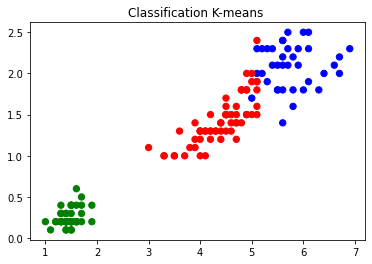
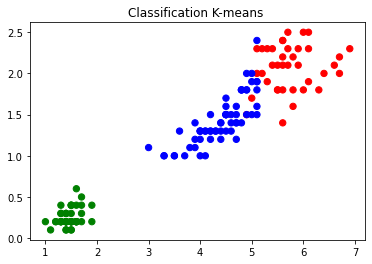
Update documentation

diff --git a/searchindex.js b/searchindex.js
@@ -1,1 +1,1 @@
-Search.setIndex({docnames:["Tugas1","Tugas2","Tugas3","Tugas4","Tugas5","intro","markdown","markdown-notebooks"],envversion:{"sphinx.domains.c":2,"sphinx.domains.changeset":1,"sphinx.domains.citation":1,"sphinx.domains.cpp":5,"sphinx.domains.index":1,"sphinx.domains.javascript":2,"sphinx.domains.math":2,"sphinx.domains.python":3,"sphinx.domains.rst":2,"sphinx.domains.std":2,"sphinx.ext.intersphinx":1,"sphinxcontrib.bibtex":9,sphinx:56},filenames:["Tugas1.ipynb","Tugas2.ipynb","Tugas3.ipynb","Tugas4.ipynb","Tugas5.ipynb","intro.md","markdown.md","markdown-notebooks.md"],objects:{},objnames:{},objtypes:{},terms:{"0":[0,1,2,3,4],"05":4,"0x7fc813c35c10":4,"0x7ff1bbdb3a10":[],"1":[1,2,3,4,5],"10":[],"109024":0,"11":3,"120":2,"145":[1,4],"146":[1,4],"147":[1,4],"148":[1,4],"149":[1,4],"150":[1,2,4],"179":4,"188":4,"19":[],"1936":4,"1950":4,"1972":4,"1973":4,"1980":4,"1988":4,"2":[0,2,3,4,5,7],"20":[3,4],"20000":0,"200411100055":5,"2014":6,"2020":0,"209c72615602":[],"218":4,"22361":4,"23":[],"26":2,"260000":0,"28":3,"3":[0,1,3,4,5],"30":2,"33":4,"4":[0,1,2,4,5,7],"40":4,"4194":4,"43":4,"431":4,"433":4,"471":4,"5":[1,2,3,5],"50":[0,4],"54":4,"5485":[],"5486":[],"5487":[],"5488":[],"5489":[],"57838da014bb":[],"6":[1,2,3,4],"64":4,"67":4,"7":[1,2,3,4],"70000":0,"71":4,"76":4,"7826":4,"7943dae48e6f":[],"79833":0,"8":[1,2,3,4],"82":3,"83":4,"84":4,"85000":0,"9":[1,2,3,4],"9333333333333333":3,"9490":4,"9565":4,"class":[2,4],"default":7,"do":6,"function":6,"import":[0,1,2,3,4],"new":4,"r\u00e9el":4,"return":0,"true":2,A:4,As:[],But:[],For:6,If:7,In:6,It:6,NOT:4,No:4,One:4,That:7,The:[4,6,7],There:[],With:7,__getattr__:[],__getattribute__:[],__setattr__:[],_iris_dataset:4,aa:1,ab:1,about:[6,7],ac:1,accept:6,accuraci:[2,3],accuracy_scor:2,ad:1,add_:[],al:4,algorithm:[],align:[],all:[6,7],allow:6,also:[4,6,7],an:6,analysi:4,analyst:0,ani:7,annual:4,append:2,ar:[4,6,7],arc:4,aril:5,around:4,arrai:[2,3,4],attribut:4,attributeerror:[],attributeerrortraceback:[],auditori:6,australia:6,auto:[],autoclass:4,axi:1,b:[0,4],base:7,bay:3,begin:[],being:6,best:4,bib:6,bibliographi:6,bibtex:6,big:0,block:7,blue:4,book:[6,7],both:6,box:6,brian:6,brisban:6,build:6,built:7,bunch:2,bundl:[],c8fbb625ebca:[],c:[3,4,5],call:6,can:[6,7],characterist:4,check:[],cheeseman:4,choos:4,christoph:6,cite:6,clasif:3,classic:4,classif:4,cluster:5,cm:[2,3,4],code:[6,7],cognit:6,col:0,collect:4,colormap:4,column:[1,4],com:[0,1,3],command:7,commonmark:6,company_loc:0,company_s:0,concat:1,conceptu:4,confer:6,confusion_matrix:3,contain:4,content:[6,7],contribut:4,convert:7,core:[],correct:3,correl:4,corrpr:3,cortex:6,creat:[],creator:4,csv:[0,1,3,4],cycler:[0,1],d83:4,d:7,dai:4,dasarathi:4,data:[0,1,2,3,4,5],data_modul:4,dataa1:1,dataa2:1,dataa3:1,dataa4:1,databas:4,datafram:[1,4],datalist:1,dataset:[0,1,2,3,4],date:4,de:[0,6],def:0,defin:7,depend:6,depth:[],descr:4,detail:7,differ:6,direct:7,diskritisasi:[],diskrititasi:5,displai:7,diss:0,dissimiliar:5,dist:[],distribut:4,document:[6,7],doe:[],dollar:[],donor:4,ds_salari:0,dtype:[3,4],duda:4,e:4,each:4,ecosystem:6,ellipsi:1,els:3,emb:[],employee_resid:0,employment_typ:0,encod:1,end:[],engin:0,environ:4,escap:[],est:1,et:4,etc:[],eugen:4,eur:0,evid:6,exampl:[4,6],execut:7,experience_level:0,expos:4,extens:6,fa:1,fals:3,falsepr:3,famou:4,fb:1,fc:1,fd:1,feature_nam:[2,4],feel:[],few:[],field:4,file:7,filenam:4,find:4,first:4,fisher:4,fit:[1,2,3,4],fit_transform:3,flavor:6,follow:[6,7],found:4,frame:4,frequent:4,from:[0,1,2,3,4],frontier:6,ft:0,g:4,gate:4,gaussiannb:3,gb:0,gbp:0,gener:[],get:[6,7],githubusercont:[0,1,3],give:[],go:[],gov:4,green:4,guid:[],ha:4,hart:4,have:7,hdhpk14:6,head:[0,1,3],heer:6,help:6,here:6,high:4,hn:0,holdgraf:6,holdgraf_evidence_2014:6,how:7,html:[],http:[0,1,3],human:6,ieee:4,ii:4,iloc:3,imag:3,includ:7,inform:[4,7],init:7,inlin:[2,6],input:6,insert:6,instanc:4,instruct:7,int32:4,intellig:4,interact:[],intern:6,io:4,ion:[0,1],ipynb:6,ipython:[],iri:[1,2,3,4],isbn:4,job_titl:0,john:4,jp:0,juli:4,jupyt:[6,7],jupyterbook:6,jupytext:7,just:6,k:[2,5],k_rang:2,kbinsdiscret:1,keep:[],kela:5,kernel:7,kind:6,kkn:[],kmean:4,kneighborsclassifi:2,knight:6,knn:5,known:4,l:0,la_:[],labels_:4,languag:6,last:[],leaf_siz:[],learn:[0,4],length:[2,4],let:7,lib:[],like:[6,7],line:[6,7],linearli:4,list:[],literatur:4,ll:6,load_iri:[2,4],local:[],lot:6,m:0,machin:[0,4],mai:4,main:[0,1,3],major:[],make:[],mani:[4,6,7],markdown:[],markdownfil:7,markedli:6,markup:6,marshal:4,math:[],mathemat:4,matplotlib:[0,1,2,3,4],max:4,mbox:[],md:[6,7],mean:5,measur:4,metric:[2,3,4],metric_param:[],mi:0,michael:4,min:4,minkowski:[],miss:4,mlc:4,model:4,model_select:[2,3],modul:[],more:[4,7],moreov:6,most:6,mpimg:3,multipl:4,must:6,myst:[],n:[3,4,6],n_bin:1,n_cluster:4,n_job:[],n_neighbor:2,naccuraci:3,naiv:3,naive_bay:3,nama:5,name:[],nameerror:[],nameerrortraceback:[],nasa:4,ndarrai:2,ndata:4,nearest:4,need:7,neighbor:[2,4],neighborhood:4,neurosci:6,nfrom:4,ni:4,nim:5,niri:4,nlatter:4,nmachin:4,none:4,nose:4,note:[4,6],notebook:6,np:[0,1,3,4],npattern:4,nthe:4,nthi:4,ntype:4,number:4,numer:4,numpi:[0,1,2,3,4],nvclassifi:3,ny:4,o:4,object:3,off:[6,7],one:6,ordin:1,org:6,other:[4,7],out:[],output:7,overview:6,p:4,packag:[],page:[4,6,7],pami:4,panda:[0,1,3,4],paper:4,part:4,partial:4,particular:[],paslei:6,path:7,pathcollect:4,pattern:4,pd:[0,1,3,4],penambangan:5,pengumpulan:5,penugasan:5,perhap:4,petal:[2,4],petal_length:[1,3,4],petal_width:[1,3,4],petallength:1,petalwidth:1,plant:4,plot:2,plt:[0,1,2,3,4],plu:4,point:4,pop:[],post:[],power:6,predi:4,predict:[2,3,4,6],preprocess:[1,3],presenc:7,print:[0,2,3,4,7],probabl:5,problem:4,proceed:4,product:0,properli:6,purpos:6,py:[],pyplot:[0,1,2,3,4],python3:[],q327:4,r:4,ramsai:6,random:[],random_st:[2,3],rang:[2,3],raw:[0,1,3],rcparam:[0,1],read_csv:[0,1,3],recent:[],recognit:4,red:4,reduc:4,refer:[4,6],referenc:4,regular:6,remote_ratio:0,render:6,repositori:4,reshap:1,rest:7,return_x_i:2,robert:6,row:[1,3,4],rule:4,run:7,s:[0,4,6,7],salari:0,salary_curr:0,salary_in_usd:0,same:[4,6],sampl:[],saputra:5,sc:3,scatter:4,scene:4,scientist:0,score:2,scores_list:2,sd:4,se:0,seaborn:[],see:[4,6,7],self:[],sepal:[2,4],sepal_length:[1,3,4],sepal_width:[1,3,4],sepallength:1,sepalwidth:1,separ:4,serv:6,set:4,setosa:[1,2,3,4],shape:[2,3],should:7,show:[6,7],sign:[],similar:6,simpl:6,sir:4,sklearn:[1,2,3,4],slight:6,sm:4,small:6,sn:[],so:7,some:6,son:4,sp:1,span:6,spe:1,speci:[1,3],special:6,specif:6,spesi:1,sphinx:6,stand:6,standardscal:3,start:[6,7],starter:6,statist:4,store:6,str:[],strategi:1,structur:[4,6],sum:3,summari:4,support:7,sure:[],syntax:6,system:4,t:[3,6],taken:4,target:[2,4],target_nam:4,taxonom:4,tepal_length:1,tepal_width:1,test:2,test_siz:[2,3],tex:[],text:[2,4,6,7],thei:6,theori:4,thi:[4,6,7],thing:7,those:6,three:4,titl:4,to_csv:[],tool:6,top:7,topic:4,train_test_split:[2,3],transact:4,transform:[1,3],treat:7,tuga:5,two:[4,6,7],type:2,u10:4,uci:4,understand:7,uniform:1,unnam:0,us:[4,6,7],usd:0,usr:[],util:2,v:4,valu:[1,2,3,4],variat:6,versicolor:[2,3,4],versicolour:4,virginica:[1,2,3,4],vol:4,vstack:3,w:4,wahyu:5,wahyuarilsaputra:[0,1,3],want:[],weight:[],well:[],wendi:6,when:[6,7],where:4,wherea:6,whether:6,which:[4,7],width:[2,4],wilei:4,work:[],work_year:0,write:[6,7],written:[6,7],wrong:4,x:[0,2,3,4],x_new:2,x_test:[2,3],x_train:[2,3],xa:1,xb:1,xc:1,xd:1,xlabel:2,y:[0,2,3,4],y_compar:3,y_pred:[2,3],y_predict:2,y_test:[2,3],y_train:[2,3],ylabel:2,you:[6,7],your:[6,7]},titles:["Tugas 1 : Dissimiliarity","Tugas 2 : Diskrititasi","Tugas 3 : KNN","Tugas 4 : Probability","Tugas 5 : K-Means Clustering","Welcome to your Jupyter Book","Markdown Files","Notebooks with MyST Markdown"],titleterms:{"1":0,"2":1,"3":2,"4":3,"5":4,add:7,an:7,block:[],book:5,cell:7,citat:6,cluster:4,code:[],content:[],creat:7,direct:6,diskritisasi:[],diskrititasi:1,dissimiliar:0,exampl:7,file:6,jupyt:5,k:4,knn:2,learn:6,markdown:[6,7],mean:4,metadata:7,more:6,myst:[6,7],notebook:7,output:[],probabl:3,quickli:7,role:6,sampl:6,tuga:[0,1,2,3,4],welcom:5,what:6,yaml:7,your:5}})
+Search.setIndex({docnames:["Tugas1","Tugas2","Tugas3","Tugas4","Tugas5","intro","markdown","markdown-notebooks"],envversion:{"sphinx.domains.c":2,"sphinx.domains.changeset":1,"sphinx.domains.citation":1,"sphinx.domains.cpp":5,"sphinx.domains.index":1,"sphinx.domains.javascript":2,"sphinx.domains.math":2,"sphinx.domains.python":3,"sphinx.domains.rst":2,"sphinx.domains.std":2,"sphinx.ext.intersphinx":1,"sphinxcontrib.bibtex":9,sphinx:56},filenames:["Tugas1.ipynb","Tugas2.ipynb","Tugas3.ipynb","Tugas4.ipynb","Tugas5.ipynb","intro.md","markdown.md","markdown-notebooks.md"],objects:{},objnames:{},objtypes:{},terms:{"0":[0,1,2,3,4],"05":4,"0x7fc813c35c10":[],"0x7fde151e50d0":4,"0x7ff1bbdb3a10":[],"1":[1,2,3,4,5],"10":[],"109024":0,"11":3,"120":2,"145":[1,4],"146":[1,4],"147":[1,4],"148":[1,4],"149":[1,4],"150":[1,2,4],"179":4,"188":4,"19":[],"1936":4,"1950":4,"1972":4,"1973":4,"1980":4,"1988":4,"2":[0,2,3,4,5,7],"20":[3,4],"20000":0,"200411100055":5,"2014":6,"2020":0,"209c72615602":[],"218":4,"22361":4,"23":[],"26":2,"260000":0,"28":3,"3":[0,1,3,4,5],"30":2,"33":4,"4":[0,1,2,4,5,7],"40":4,"4194":4,"43":4,"431":4,"433":4,"471":4,"5":[1,2,3,5],"50":[0,4],"54":4,"5485":[],"5486":[],"5487":[],"5488":[],"5489":[],"57838da014bb":[],"6":[1,2,3,4],"64":4,"67":4,"7":[1,2,3,4],"70000":0,"71":4,"76":4,"7826":4,"7943dae48e6f":[],"79833":0,"8":[1,2,3,4],"82":3,"83":4,"84":4,"85000":0,"9":[1,2,3,4],"9333333333333333":3,"9490":4,"9565":4,"class":[2,4],"default":7,"do":6,"function":6,"import":[0,1,2,3,4],"new":4,"r\u00e9el":4,"return":0,"true":2,A:4,As:[],But:[],For:6,If:7,In:6,It:6,NOT:4,No:4,One:4,That:7,The:[4,6,7],There:[],With:7,__getattr__:[],__getattribute__:[],__setattr__:[],_iris_dataset:4,aa:1,ab:1,about:[6,7],ac:1,accept:6,accuraci:[2,3],accuracy_scor:2,ad:1,add_:[],al:4,algorithm:[],align:[],all:[6,7],allow:6,also:[4,6,7],an:6,analysi:4,analyst:0,ani:7,annual:4,append:2,ar:[4,6,7],arc:4,aril:5,around:4,arrai:[2,3,4],attribut:4,attributeerror:[],attributeerrortraceback:[],auditori:6,australia:6,auto:[],autoclass:4,axi:1,b:[0,4],base:7,bay:3,begin:[],being:6,best:4,bib:6,bibliographi:6,bibtex:6,big:0,block:7,blue:4,book:[6,7],both:6,box:6,brian:6,brisban:6,build:6,built:7,bunch:2,bundl:[],c8fbb625ebca:[],c:[3,4,5],call:6,can:[6,7],characterist:4,check:[],cheeseman:4,choos:4,christoph:6,cite:6,clasif:3,classic:4,classif:4,cluster:5,cm:[2,3,4],code:[6,7],cognit:6,col:0,collect:4,colormap:4,column:[1,4],com:[0,1,3],command:7,commonmark:6,company_loc:0,company_s:0,concat:1,conceptu:4,confer:6,confusion_matrix:3,contain:4,content:[6,7],contribut:4,convert:7,core:[],correct:3,correl:4,corrpr:3,cortex:6,creat:[],creator:4,csv:[0,1,3,4],cycler:[0,1],d83:4,d:7,dai:4,dasarathi:4,data:[0,1,2,3,4,5],data_modul:4,dataa1:1,dataa2:1,dataa3:1,dataa4:1,databas:4,datafram:[1,4],datalist:1,dataset:[0,1,2,3,4],date:4,de:[0,6],def:0,defin:7,depend:6,depth:[],descr:4,detail:7,differ:6,direct:7,diskritisasi:[],diskrititasi:5,displai:7,diss:0,dissimiliar:5,dist:[],distribut:4,document:[6,7],doe:[],dollar:[],donor:4,ds_salari:0,dtype:[3,4],duda:4,e:4,each:4,ecosystem:6,ellipsi:1,els:3,emb:[],employee_resid:0,employment_typ:0,encod:1,end:[],engin:0,environ:4,escap:[],est:1,et:4,etc:[],eugen:4,eur:0,evid:6,exampl:[4,6],execut:7,experience_level:0,expos:4,extens:6,fa:1,fals:3,falsepr:3,famou:4,fb:1,fc:1,fd:1,feature_nam:[2,4],feel:[],few:[],field:4,file:7,filenam:4,find:4,first:4,fisher:4,fit:[1,2,3,4],fit_transform:3,flavor:6,follow:[6,7],found:4,frame:4,frequent:4,from:[0,1,2,3,4],frontier:6,ft:0,g:4,gate:4,gaussiannb:3,gb:0,gbp:0,gener:[],get:[6,7],githubusercont:[0,1,3],give:[],go:[],gov:4,green:4,guid:[],ha:4,hart:4,have:7,hdhpk14:6,head:[0,1,3],heer:6,help:6,here:6,high:4,hn:0,holdgraf:6,holdgraf_evidence_2014:6,how:7,html:[],http:[0,1,3],human:6,ieee:4,ii:4,iloc:3,imag:3,includ:7,inform:[4,7],init:7,inlin:[2,6],input:6,insert:6,instanc:4,instruct:7,int32:4,intellig:4,interact:[],intern:6,io:4,ion:[0,1],ipynb:6,ipython:[],iri:[1,2,3,4],isbn:4,job_titl:0,john:4,jp:0,juli:4,jupyt:[6,7],jupyterbook:6,jupytext:7,just:6,k:[2,5],k_rang:2,kbinsdiscret:1,keep:[],kela:5,kernel:7,kind:6,kkn:[],kmean:4,kneighborsclassifi:2,knight:6,knn:5,known:4,l:0,la_:[],labels_:4,languag:6,last:[],leaf_siz:[],learn:[0,4],length:[2,4],let:7,lib:[],like:[6,7],line:[6,7],linearli:4,list:[],literatur:4,ll:6,load_iri:[2,4],local:[],lot:6,m:0,machin:[0,4],mai:4,main:[0,1,3],major:[],make:[],mani:[4,6,7],markdown:[],markdownfil:7,markedli:6,markup:6,marshal:4,math:[],mathemat:4,matplotlib:[0,1,2,3,4],max:4,mbox:[],md:[6,7],mean:5,measur:4,metric:[2,3,4],metric_param:[],mi:0,michael:4,min:4,minkowski:[],miss:4,mlc:4,model:4,model_select:[2,3],modul:[],more:[4,7],moreov:6,most:6,mpimg:3,multipl:4,must:6,myst:[],n:[3,4,6],n_bin:1,n_cluster:4,n_job:[],n_neighbor:2,naccuraci:3,naiv:3,naive_bay:3,nama:5,name:[],nameerror:[],nameerrortraceback:[],nasa:4,ndarrai:2,ndata:4,nearest:4,need:7,neighbor:[2,4],neighborhood:4,neurosci:6,nfrom:4,ni:4,nim:5,niri:4,nlatter:4,nmachin:4,none:4,nose:4,note:[4,6],notebook:6,np:[0,1,3,4],npattern:4,nthe:4,nthi:4,ntype:4,number:4,numer:4,numpi:[0,1,2,3,4],nvclassifi:3,ny:4,o:4,object:3,off:[6,7],one:6,ordin:1,org:6,other:[4,7],out:[],output:7,overview:6,p:4,packag:[],page:[4,6,7],pami:4,panda:[0,1,3,4],paper:4,part:4,partial:4,particular:[],paslei:6,path:7,pathcollect:4,pattern:4,pd:[0,1,3,4],penambangan:5,pengumpulan:5,penugasan:5,perhap:4,petal:[2,4],petal_length:[1,3,4],petal_width:[1,3,4],petallength:1,petalwidth:1,plant:4,plot:2,plt:[0,1,2,3,4],plu:4,point:4,pop:[],post:[],power:6,predi:4,predict:[2,3,4,6],preprocess:[1,3],presenc:7,print:[0,2,3,4,7],probabl:5,problem:4,proceed:4,product:0,properli:6,purpos:6,py:[],pyplot:[0,1,2,3,4],python3:[],q327:4,r:4,ramsai:6,random:[],random_st:[2,3],rang:[2,3],raw:[0,1,3],rcparam:[0,1],read_csv:[0,1,3],recent:[],recognit:4,red:4,reduc:4,refer:[4,6],referenc:4,regular:6,remote_ratio:0,render:6,repositori:4,reshap:1,rest:7,return_x_i:2,robert:6,row:[1,3,4],rule:4,run:7,s:[0,4,6,7],salari:0,salary_curr:0,salary_in_usd:0,same:[4,6],sampl:[],saputra:5,sc:3,scatter:4,scene:4,scientist:0,score:2,scores_list:2,sd:4,se:0,seaborn:[],see:[4,6,7],self:[],sepal:[2,4],sepal_length:[1,3,4],sepal_width:[1,3,4],sepallength:1,sepalwidth:1,separ:4,serv:6,set:4,setosa:[1,2,3,4],shape:[2,3],should:7,show:[6,7],sign:[],similar:6,simpl:6,sir:4,sklearn:[1,2,3,4],slight:6,sm:4,small:6,sn:[],so:7,some:6,son:4,sp:1,span:6,spe:1,speci:[1,3],special:6,specif:6,spesi:1,sphinx:6,stand:6,standardscal:3,start:[6,7],starter:6,statist:4,store:6,str:[],strategi:1,structur:[4,6],sum:3,summari:4,support:7,sure:[],syntax:6,system:4,t:[3,6],taken:4,target:[2,4],target_nam:4,taxonom:4,tepal_length:1,tepal_width:1,test:2,test_siz:[2,3],tex:[],text:[2,4,6,7],thei:6,theori:4,thi:[4,6,7],thing:7,those:6,three:4,titl:4,to_csv:[],tool:6,top:7,topic:4,train_test_split:[2,3],transact:4,transform:[1,3],treat:7,tuga:5,two:[4,6,7],type:2,u10:4,uci:4,understand:7,uniform:1,unnam:0,us:[4,6,7],usd:0,usr:[],util:2,v:4,valu:[1,2,3,4],variat:6,versicolor:[2,3,4],versicolour:4,virginica:[1,2,3,4],vol:4,vstack:3,w:4,wahyu:5,wahyuarilsaputra:[0,1,3],want:[],weight:[],well:[],wendi:6,when:[6,7],where:4,wherea:6,whether:6,which:[4,7],width:[2,4],wilei:4,work:[],work_year:0,write:[6,7],written:[6,7],wrong:4,x:[0,2,3,4],x_new:2,x_test:[2,3],x_train:[2,3],xa:1,xb:1,xc:1,xd:1,xlabel:2,y:[0,2,3,4],y_compar:3,y_pred:[2,3],y_predict:2,y_test:[2,3],y_train:[2,3],ylabel:2,you:[6,7],your:[6,7]},titles:["Tugas 1 : Dissimiliarity","Tugas 2 : Diskrititasi","Tugas 3 : KNN","Tugas 4 : Probability","Tugas 5 : K-Means Clustering","Welcome to your Jupyter Book","Markdown Files","Notebooks with MyST Markdown"],titleterms:{"1":0,"2":1,"3":2,"4":3,"5":4,add:7,an:7,block:[],book:5,cell:7,citat:6,cluster:4,code:[],content:[],creat:7,direct:6,diskritisasi:[],diskrititasi:1,dissimiliar:0,exampl:7,file:6,jupyt:5,k:4,knn:2,learn:6,markdown:[6,7],mean:4,metadata:7,more:6,myst:[6,7],notebook:7,output:[],probabl:3,quickli:7,role:6,sampl:6,tuga:[0,1,2,3,4],welcom:5,what:6,yaml:7,your:5}})

diff --git a/Tugas5.html b/Tugas5.html
@@ -766,7 +766,7 @@ title="Print to PDF"
 </div>
 <div class="cell_output docutils container">
 <div class="output text_html">
-  <div id="df-f6535c56-07c1-4f72-b195-255659a3a111">
+  <div id="df-33600a52-9047-4dc3-b70b-fa9c16e08eca">
     <div class="colab-df-container">
       <div>
 <style scoped>
@@ -874,7 +874,7 @@ title="Print to PDF"
 </table>
 <p>150 rows × 4 columns</p>
 </div>
-      <button class="colab-df-convert" onclick="convertToInteractive('df-f6535c56-07c1-4f72-b195-255659a3a111')"
+      <button class="colab-df-convert" onclick="convertToInteractive('df-33600a52-9047-4dc3-b70b-fa9c16e08eca')"
               title="Convert this dataframe to an interactive table."
               style="display:none;">
 
@@ -925,12 +925,12 @@ title="Print to PDF"
 
       <script>
         const buttonEl =
-          document.querySelector('#df-f6535c56-07c1-4f72-b195-255659a3a111 button.colab-df-convert');
+          document.querySelector('#df-33600a52-9047-4dc3-b70b-fa9c16e08eca button.colab-df-convert');
         buttonEl.style.display =
           google.colab.kernel.accessAllowed ? 'block' : 'none';
 
         async function convertToInteractive(key) {
-          const element = document.querySelector('#df-f6535c56-07c1-4f72-b195-255659a3a111');
+          const element = document.querySelector('#df-33600a52-9047-4dc3-b70b-fa9c16e08eca');
           const dataTable =
             await google.colab.kernel.invokeFunction('convertToInteractive',
                                                      [key], {});
@@ -961,7 +961,7 @@ title="Print to PDF"
 </div>
 <div class="cell_output docutils container">
 <div class="output text_html">
-  <div id="df-4765a946-d408-4935-8b69-2349b8e01ad5">
+  <div id="df-b6ac3ee0-1b61-491d-96bb-b4167061691c">
     <div class="colab-df-container">
       <div>
 <style scoped>
@@ -1033,7 +1033,7 @@ title="Print to PDF"
 </table>
 <p>150 rows × 1 columns</p>
 </div>
-      <button class="colab-df-convert" onclick="convertToInteractive('df-4765a946-d408-4935-8b69-2349b8e01ad5')"
+      <button class="colab-df-convert" onclick="convertToInteractive('df-b6ac3ee0-1b61-491d-96bb-b4167061691c')"
               title="Convert this dataframe to an interactive table."
               style="display:none;">
 
@@ -1084,12 +1084,12 @@ title="Print to PDF"
 
       <script>
         const buttonEl =
-          document.querySelector('#df-4765a946-d408-4935-8b69-2349b8e01ad5 button.colab-df-convert');
+          document.querySelector('#df-b6ac3ee0-1b61-491d-96bb-b4167061691c button.colab-df-convert');
         buttonEl.style.display =
           google.colab.kernel.accessAllowed ? 'block' : 'none';
 
         async function convertToInteractive(key) {
-          const element = document.querySelector('#df-4765a946-d408-4935-8b69-2349b8e01ad5');
+          const element = document.querySelector('#df-b6ac3ee0-1b61-491d-96bb-b4167061691c');
           const dataTable =
             await google.colab.kernel.invokeFunction('convertToInteractive',
                                                      [key], {});
@@ -1138,11 +1138,11 @@ title="Print to PDF"
 <div class="cell_output docutils container">
 <div class="output text_plain highlight-myst-ansi notranslate"><div class="highlight"><pre><span></span>array([1, 1, 1, 1, 1, 1, 1, 1, 1, 1, 1, 1, 1, 1, 1, 1, 1, 1, 1, 1, 1, 1,
        1, 1, 1, 1, 1, 1, 1, 1, 1, 1, 1, 1, 1, 1, 1, 1, 1, 1, 1, 1, 1, 1,
-       1, 1, 1, 1, 1, 1, 0, 0, 2, 0, 0, 0, 0, 0, 0, 0, 0, 0, 0, 0, 0, 0,
-       0, 0, 0, 0, 0, 0, 0, 0, 0, 0, 0, 2, 0, 0, 0, 0, 0, 0, 0, 0, 0, 0,
-       0, 0, 0, 0, 0, 0, 0, 0, 0, 0, 0, 0, 2, 0, 2, 2, 2, 2, 0, 2, 2, 2,
-       2, 2, 2, 0, 0, 2, 2, 2, 2, 0, 2, 0, 2, 0, 2, 2, 0, 0, 2, 2, 2, 2,
-       2, 0, 2, 2, 2, 2, 0, 2, 2, 2, 0, 2, 2, 2, 0, 2, 2, 0], dtype=int32)
+       1, 1, 1, 1, 1, 1, 2, 2, 0, 2, 2, 2, 2, 2, 2, 2, 2, 2, 2, 2, 2, 2,
+       2, 2, 2, 2, 2, 2, 2, 2, 2, 2, 2, 0, 2, 2, 2, 2, 2, 2, 2, 2, 2, 2,
+       2, 2, 2, 2, 2, 2, 2, 2, 2, 2, 2, 2, 0, 2, 0, 0, 0, 0, 2, 0, 0, 0,
+       0, 0, 0, 2, 2, 0, 0, 0, 0, 2, 0, 2, 0, 2, 0, 0, 2, 2, 0, 0, 0, 0,
+       0, 2, 0, 0, 0, 0, 2, 0, 0, 0, 2, 0, 0, 0, 2, 0, 0, 2], dtype=int32)
 </pre></div>
 </div>
 </div>
@@ -1154,7 +1154,7 @@ title="Print to PDF"
 </div>
 </div>
 <div class="cell_output docutils container">
-<div class="output text_plain highlight-myst-ansi notranslate"><div class="highlight"><pre><span></span>&lt;matplotlib.collections.PathCollection at 0x7fc813c35c10&gt;
+<div class="output text_plain highlight-myst-ansi notranslate"><div class="highlight"><pre><span></span>&lt;matplotlib.collections.PathCollection at 0x7fde151e50d0&gt;
 </pre></div>
 </div>
 <img alt="_images/Tugas5_14_1.png" src="_images/Tugas5_14_1.png" />
@@ -1205,15 +1205,15 @@ title="Print to PDF"
 </div>
 <div class="cell_output docutils container">
 <div class="output stream highlight-myst-ansi notranslate"><div class="highlight"><pre><span></span>[1 1 1 1 1 1 1 1 1 1 1 1 1 1 1 1 1 1 1 1 1 1 1 1 1 1 1 1 1 1 1 1 1 1 1 1 1
- 1 1 1 1 1 1 1 1 1 1 1 1 1 0 0 2 0 0 0 0 0 0 0 0 0 0 0 0 0 0 0 0 0 0 0 0 0
- 0 0 0 2 0 0 0 0 0 0 0 0 0 0 0 0 0 0 0 0 0 0 0 0 0 0 2 0 2 2 2 2 0 2 2 2 2
- 2 2 0 0 2 2 2 2 0 2 0 2 0 2 2 0 0 2 2 2 2 2 0 2 2 2 2 0 2 2 2 0 2 2 2 0 2
- 2 0]
+ 1 1 1 1 1 1 1 1 1 1 1 1 1 2 2 0 2 2 2 2 2 2 2 2 2 2 2 2 2 2 2 2 2 2 2 2 2
+ 2 2 2 0 2 2 2 2 2 2 2 2 2 2 2 2 2 2 2 2 2 2 2 2 2 2 0 2 0 0 0 0 2 0 0 0 0
+ 0 0 2 2 0 0 0 0 2 0 2 0 2 0 0 2 2 0 0 0 0 0 2 0 0 0 0 2 0 0 0 2 0 0 0 2 0
+ 0 2]
 [1 1 1 1 1 1 1 1 1 1 1 1 1 1 1 1 1 1 1 1 1 1 1 1 1 1 1 1 1 1 1 1 1 1 1 1 1
- 1 1 1 1 1 1 1 1 1 1 1 1 1 0 0 2 0 0 0 0 0 0 0 0 0 0 0 0 0 0 0 0 0 0 0 0 0
- 0 0 0 2 0 0 0 0 0 0 0 0 0 0 0 0 0 0 0 0 0 0 0 0 0 0 2 0 2 2 2 2 0 2 2 2 2
- 2 2 0 0 2 2 2 2 0 2 0 2 0 2 2 0 0 2 2 2 2 2 0 2 2 2 2 0 2 2 2 0 2 2 2 0 2
- 2 0]
+ 1 1 1 1 1 1 1 1 1 1 1 1 1 2 2 0 2 2 2 2 2 2 2 2 2 2 2 2 2 2 2 2 2 2 2 2 2
+ 2 2 2 0 2 2 2 2 2 2 2 2 2 2 2 2 2 2 2 2 2 2 2 2 2 2 0 2 0 0 0 0 2 0 0 0 0
+ 0 0 2 2 0 0 0 0 2 0 2 0 2 0 0 2 2 0 0 0 0 0 2 0 0 0 0 2 0 0 0 2 0 0 0 2 0
+ 0 2]
 </pre></div>
 </div>
 </div>

diff --git a/Tugas4.html b/Tugas4.html
@@ -375,7 +375,7 @@ title="Print to PDF"
 </div>
 <div class="cell_output docutils container">
 <div class="output text_html">
-  <div id="df-60731c10-33af-410f-a6c1-e4ed9fed6556">
+  <div id="df-b7e4c8c0-c6ec-4c47-b892-3c985c9536a7">
     <div class="colab-df-container">
       <div>
 <style scoped>
@@ -446,7 +446,7 @@ title="Print to PDF"
   </tbody>
 </table>
 </div>
-      <button class="colab-df-convert" onclick="convertToInteractive('df-60731c10-33af-410f-a6c1-e4ed9fed6556')"
+      <button class="colab-df-convert" onclick="convertToInteractive('df-b7e4c8c0-c6ec-4c47-b892-3c985c9536a7')"
               title="Convert this dataframe to an interactive table."
               style="display:none;">
 
@@ -497,12 +497,12 @@ title="Print to PDF"
 
       <script>
         const buttonEl =
-          document.querySelector('#df-60731c10-33af-410f-a6c1-e4ed9fed6556 button.colab-df-convert');
+          document.querySelector('#df-b7e4c8c0-c6ec-4c47-b892-3c985c9536a7 button.colab-df-convert');
         buttonEl.style.display =
           google.colab.kernel.accessAllowed ? 'block' : 'none';
 
         async function convertToInteractive(key) {
-          const element = document.querySelector('#df-60731c10-33af-410f-a6c1-e4ed9fed6556');
+          const element = document.querySelector('#df-b7e4c8c0-c6ec-4c47-b892-3c985c9536a7');
           const dataTable =
             await google.colab.kernel.invokeFunction('convertToInteractive',
                                                      [key], {});

diff --git a/Tugas3.html b/Tugas3.html
@@ -52,7 +52,7 @@ const thebe_selector_output = ".output, .cell_output"
     <script async="async" src="_static/sphinx-thebe.js"></script>
     <link rel="index" title="Index" href="genindex.html" />
     <link rel="search" title="Search" href="search.html" />
-    <link rel="next" title="&lt;no title&gt;" href="Tugas4.html" />
+    <link rel="next" title="Tugas 4 : Probability" href="Tugas4.html" />
     <link rel="prev" title="Tugas 2 : Diskrititasi" href="Tugas2.html" />
     <meta name="viewport" content="width=device-width, initial-scale=1" />
     <meta name="docsearch:language" content="None">
@@ -127,6 +127,16 @@ const thebe_selector_output = ".output, .cell_output"
  <li class="toctree-l1 current active">
   <a class="current reference internal" href="#">
    Tugas 3 : KNN
+  </a>
+ </li>
+ <li class="toctree-l1">
+  <a class="reference internal" href="Tugas4.html">
+   Tugas 4 : Probability
+  </a>
+ </li>
+ <li class="toctree-l1">
+  <a class="reference internal" href="Tugas5.html">
+   Tugas 5 : K-Means Clustering
   </a>
  </li>
 </ul>
@@ -720,7 +730,7 @@ setosa
     <a class='right-next' id="next-link" href="Tugas4.html" title="next page">
     <div class="prev-next-info">
         <p class="prev-next-subtitle">next</p>
-        <p class="prev-next-title">&lt;no title&gt;</p>
+        <p class="prev-next-title">Tugas 4 : Probability</p>
     </div>
     <i class="fas fa-angle-right"></i>
     </a>
